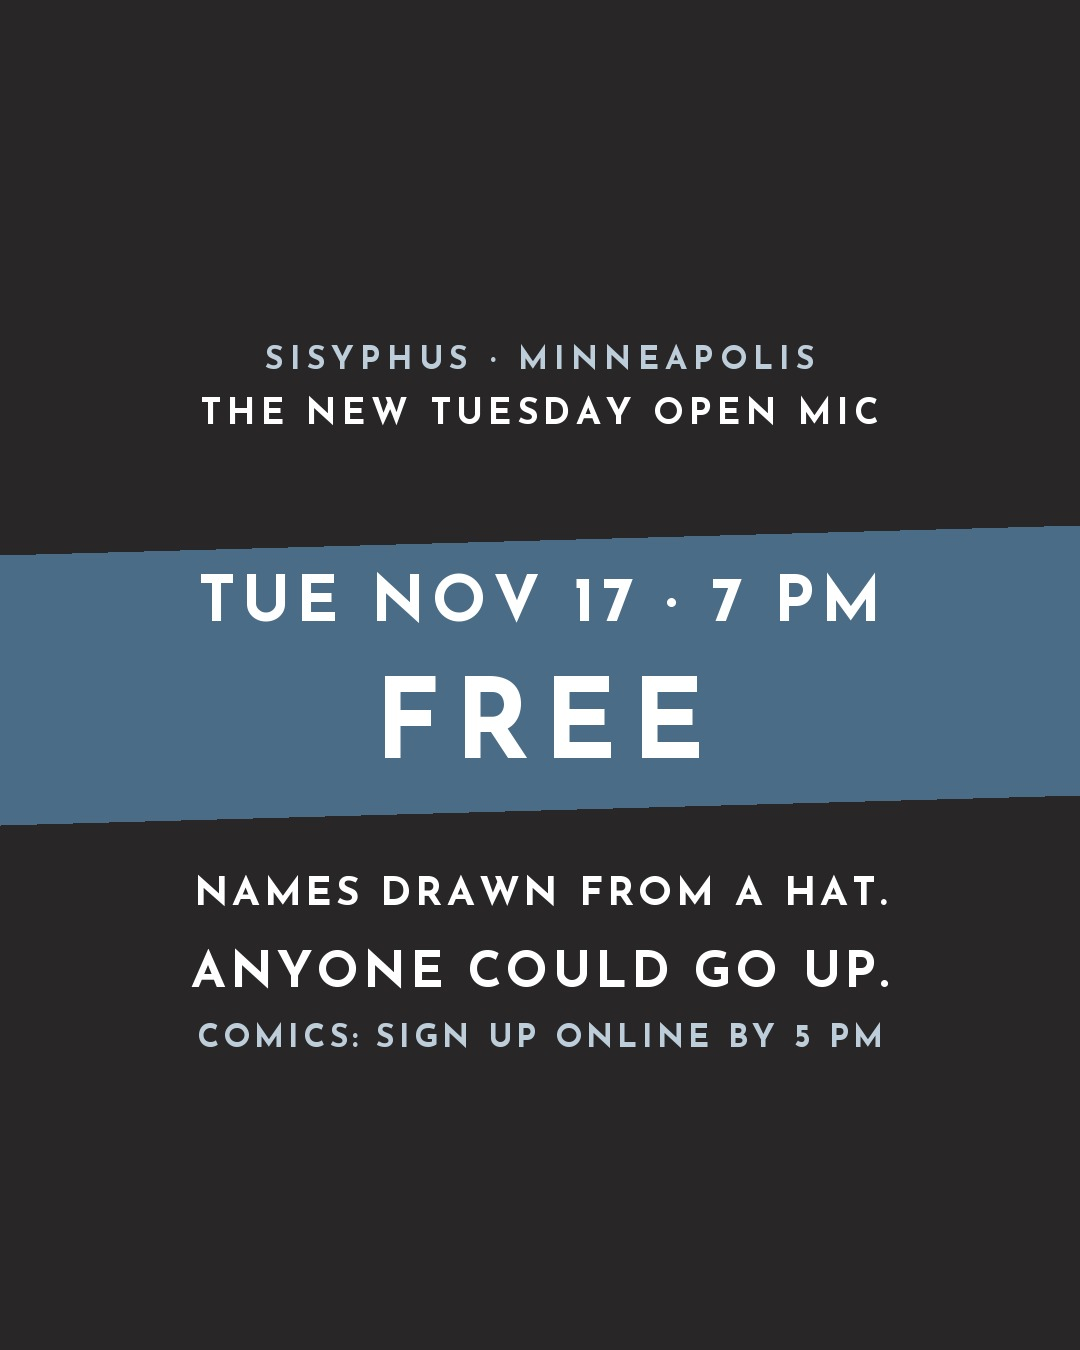
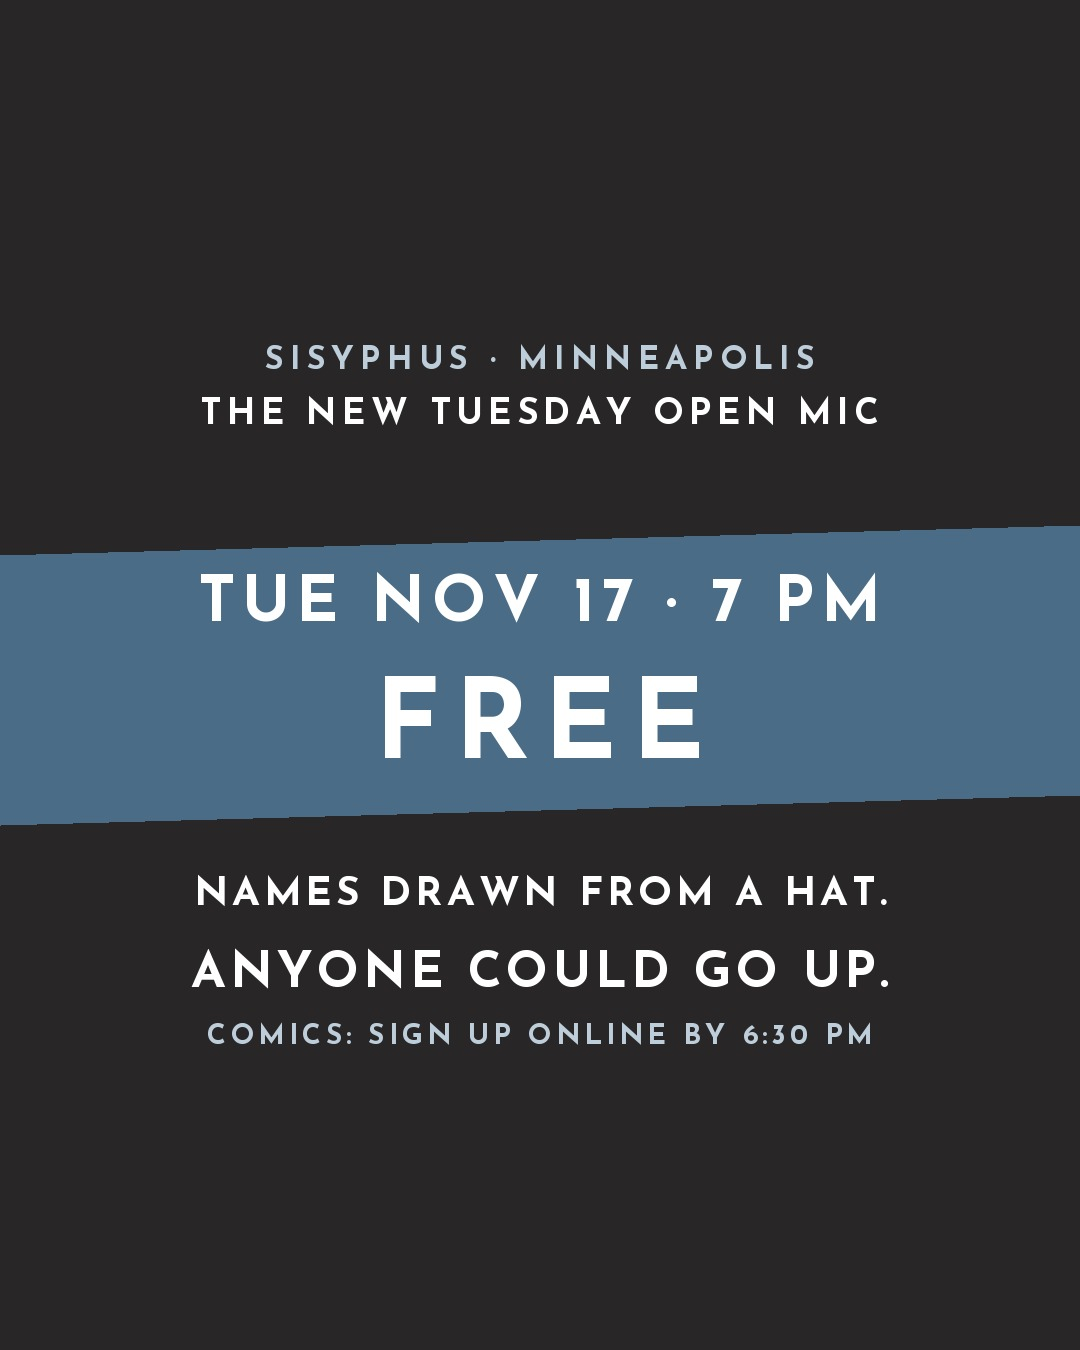
Tuesday open mic: online sign-ups close at 6:30 PM instead of 5 PM
Sam, Nov 16 2026. New migration moves the cutoff in mic_next_date()
(already applied to the database), and the sign-up page, README and
the open mic ad image say 6:30.

Claude-Session: https://claude.ai/code/session_01QbTa9Qk8JpYbQkNjbrZweC

Changed region(s): [[0.1833, 0.7467, 0.825, 0.7778]]

diff --git a/mic/index.html b/mic/index.html
@@ -59,7 +59,7 @@
         <div class="err hidden" id="formError"></div>
         <button class="btn btn-primary btn-big" id="sendBtn" type="submit">Put my name in</button>
       </form>
-      <p style="margin-top:14px;font-size:14px;color:var(--gray)">One sign-up per person per week. Sign-ups for a Tuesday close at 5 PM that day; after that you're in for the week after. Must be 18+.</p>
+      <p style="margin-top:14px;font-size:14px;color:var(--gray)">One sign-up per person per week. Sign-ups for a Tuesday close at 6:30 PM that day; after that you're in for the week after. Must be 18+.</p>
     </section>
 
     <section id="viewDone" class="hidden">

diff --git a/ads/open-mic-2026-11-17/make_ads.py b/ads/open-mic-2026-11-17/make_ads.py
@@ -50,7 +50,7 @@ def make(w, h, name):
     # Below: the hook.
     y = y0 + bh + (50 if h > w else 30)
     lines = [("NAMES DRAWN FROM A HAT.", 50, WHITE), ("ANYONE COULD GO UP.", 50, WHITE),
-             ("COMICS: SIGN UP ONLINE BY 5 PM", 32, PALE)]
+             ("COMICS: SIGN UP ONLINE BY 6:30 PM", 32, PALE)]
     for text, size, col in lines:
         spaced(d, w / 2, y, text, fit(d, text, size, 4, safe), col, 4)
         y += size + 24

diff --git a/mic/README.md b/mic/README.md
@@ -8,7 +8,7 @@ the online sign-ups (Sam, Nov 9 2026).
   sisyphusbrewing.com/pages/open-mic (iframe, sends its height with
   `micHeight`) and works on its own at staff.sisyphusbrewing.com/mic/.
   It calls `mic_signup()`, which puts the comic in for the next Tuesday.
-  Sign-ups for a Tuesday close at 5 PM Central that day, then roll to the
+  Sign-ups for a Tuesday close at 6:30 PM Central that day (moved from 5 PM, Sam, Nov 16 2026), then roll to the
   next week. One per email per week.
 - `host.html` (staff login) is the host screen: pick the Tuesday, add the
   comics booked ahead, set how many open spots, tap Draw names. Booked comics
